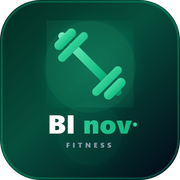
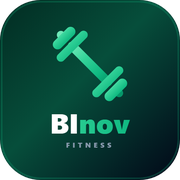
feat(branding): atualizar PNGs dos icones com o novo halter limpo e tipografia BInov unida

Changed region(s): [[0.25, 0.1111, 0.7778, 0.75]]

diff --git a/interface/public/sw.js b/interface/public/sw.js
@@ -1,5 +1,5 @@
 // Service Worker Nativo do BInov Fitness
-const CACHE_NAME = 'binov-fitness-v2';
+const CACHE_NAME = 'binov-fitness-v3';
 const STATIC_ASSETS = [
   '/',
   '/index.html',
